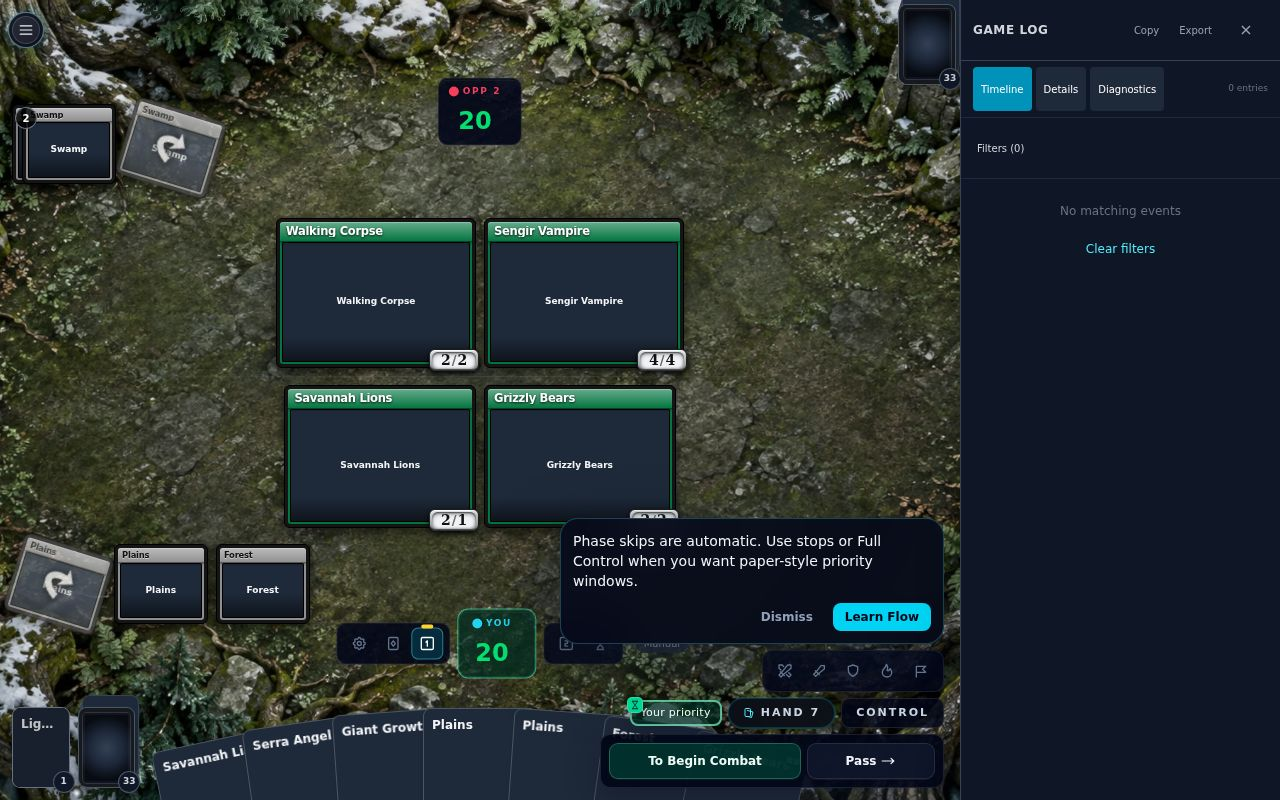
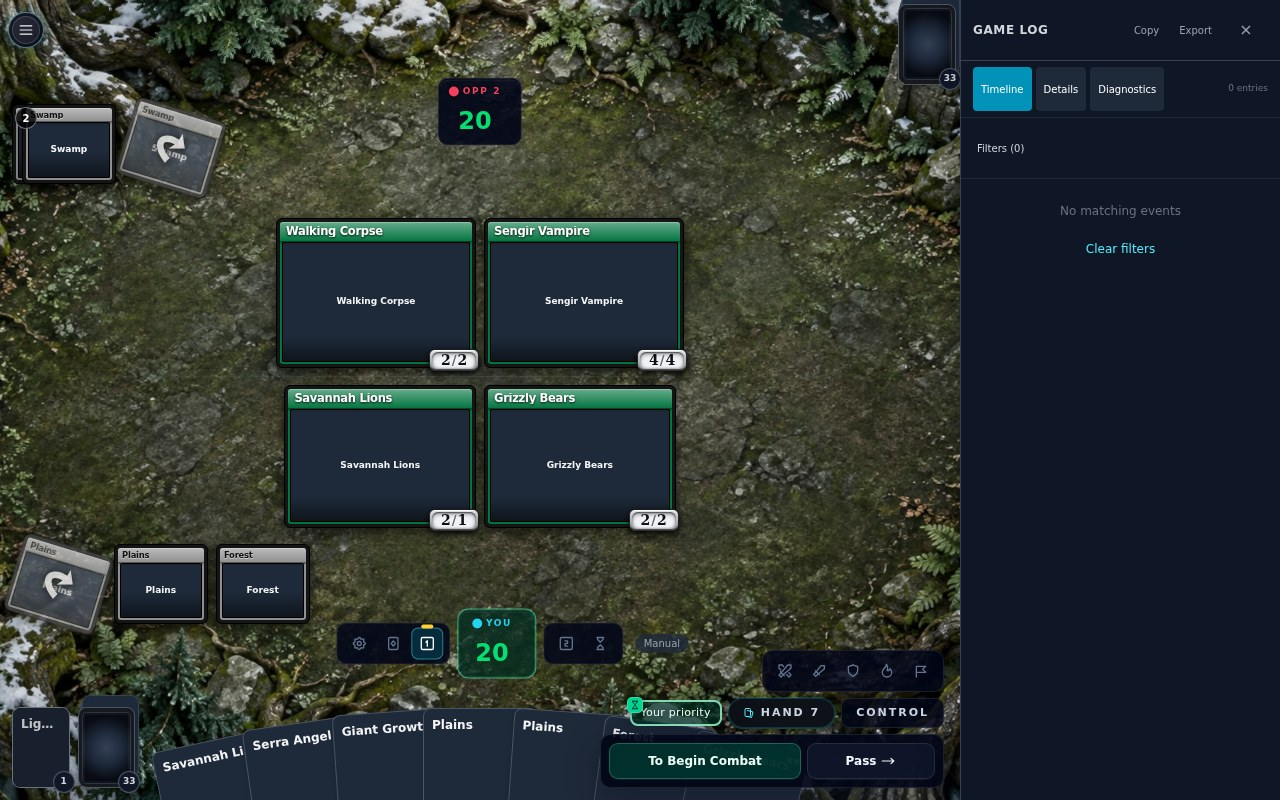
Capturas en limpio, y dos errores míos corregidos
Las capturas del E2E estaban commiteadas pero no se veían en el PR, y la de
Phase a 390 llevaba una tarjeta de ayuda de primer uso abierta: se subió como
evidencia justo el estado que la medición descartaba. Se rehacen las seis en
limpio (consejos cerrados y recarga, que los deja marcados como vistos) y se
añaden dos que sostienen lo afirmado: el contorno de cada carta con la línea del
pie fijo y su franja expuesta, y la hoja `HAND` de Phase abierta.

Y dos correcciones de esta ronda:

1. **No existe v0.131.0.** `Cargo.toml` dice 0.131.0 y hay un commit
   `release: v0.131.0`, pero `git ls-remote --tags` y la API de releases se
   paran en v0.130.0. Escribí «publicada el 21 nov», que era la fecha de
   v0.130.0. El pin candidato es el commit `4ab1091`, no un tag.

2. **La medición de la mano estaba mal, dos veces.** Primero comparaba el punto
   de impacto contra un `div` interno elegido a ojo; después usaba el centro de
   la carta, y en un abanico solapado el centro lo cubre la vecina. Las dos
   daban «0 de 6» y las dos medían el andamio del DOM o el solape.

Lo que se publica ahora está medido de tres formas que coinciden: la
accionabilidad de Playwright (`click({ trial: true })`, que nombra el elemento
que intercepta), la **franja expuesta** de cada carta —0 px en las siete, con el
pie fijo de `y 710…833` sobre un abanico que llega a 844— y el alto de carta por
debajo de ese borde, hasta 71 px. En Mesa, cerrada 0 de 7 y abierta 7 de 7.
[…]

diff --git a/docs/PHASE-E2E-2026-11-22-V0131.md b/docs/PHASE-E2E-2026-11-22-V0131.md
@@ -1,4 +1,4 @@
-# E2E Phase v/s Mesa — 22 nov 2026 (Phase `4ab1091`, v0.131.0)
+# E2E Phase v/s Mesa — 22 nov 2026 (Phase `4ab1091`, versión 0.131.0 sin tag)
 
 Pedido: ver si hay updates upstream y volver a hacer E2E con Phase frente a Mesa. El orden importa:
 primero se mide qué cambió arriba, después se mide qué se ve y qué se toca abajo.
@@ -6,7 +6,10 @@ primero se mide qué cambió arriba, después se mide qué se ve y qué se toca 
 ## 1. Upstream: hay release nueva, y no trae trabajo de vista
 
 - **Pin local**: `d01766e1` (v0.130.0), importado en el PR #68.
-- **`main` de Phase**: `4ab1091`, con **v0.131.0** publicada el 21 nov 2026 18:11 UTC.
+- **`main` de Phase**: `4ab1091`. Su `Cargo.toml` dice `version = "0.131.0"` y hay un commit
+  `release: v0.131.0`, pero **no existe tag ni release `v0.131.0`**: `git ls-remote --tags` se para en
+  `v0.130.0` y la API de releases también. Es una versión declarada, no publicada; llamarla
+  «v0.131.0 publicada» es un error, y una corrección de esta ronda.
 - **Diferencia**: 14 commits, 207 ficheros, **22 025 líneas añadidas** sólo en
   `crates/engine|phase-ast|phase-parser`. Motor sí; interfaz no.
 
@@ -27,7 +30,7 @@ Y lo que **no** cambia, que es lo que decide si este E2E tenía trabajo de produ
   (`crates/phase-engine/client-mirror/`), así que la copia que usa el motor para sus pruebas de
   formato sigue fiel sin tocarla.
 
-Conclusión honesta: **no hay vistas nuevas que portar**. Un pin a v0.131.0 sería trabajo de motor
+Conclusión honesta: **no hay vistas nuevas que portar**. Un pin a `4ab1091` sería trabajo de motor
 (casting, daño de combate, filtros, capas) y de fixture partido, no de interfaz. Eso no es un «no»:
 es un cambio de naturaleza, y quien lo pida debe saber que no mueve ni un píxel.
 
@@ -43,7 +46,7 @@ Fuera de `crates/` hay 28 ficheros, y tres de ellos son `protocol/changes/*.json
 | `bee8e913` | `pending_simultaneous_unless` (CR 101.4), `repeat_timing` (608.2c), `cause`/`discard_cause` (descarte por coste frente a efecto) | no en la interfaz: no añade `WaitingFor`, pero **sí** cambia lo que el motor hace con casos que Mesa ya dibuja (Viper, descartes) |
 
 Los tres **exigen que cualquier motor anterior a `4ab1091` se trate como incompatible**, y por eso un
-pin a v0.131.0 no es intercambiable con el actual: no se puede tomar el motor nuevo sin reimportar, ni
+pin a `4ab1091` no es intercambiable con el actual: no se puede tomar el motor nuevo sin reimportar, ni
 mezclar fixtures viejos con motor nuevo.
 
 ## 2. E2E: cómo se hizo
@@ -66,7 +69,7 @@ sí terminó entero en verde hoy (typecheck, WASM, paridad nativa, Chromium 31m2
 
 | | 1440×900 | 390×844 |
 | --- | --- | --- |
-| Phase | mano en abanico a lo ancho, 7 cartas legibles, rail de fases a la izquierda del pie | abanico grande y legible, **pero el pie le come la mitad baja** |
+| Phase | mano en abanico a lo ancho, 7 cartas legibles, rail de fases a la izquierda del pie | abanico grande y legible, **pero el pie fijo lo tapa de `y 710` para abajo** |
 | Mesa | mano en abanico centrada, dos campos con cabecera, rail de decisión a la derecha | **sin cartas visibles** con la mano cerrada; el cajón las enseña |
 
 La captura de Mesa a 1440 es la primera que se toma después de la importación de v0.130.0: el cromo,
@@ -75,37 +78,58 @@ sigue siendo el de la pasada de la ficha de fase.
 
 ## 4. Lo que se toca — el número que decide la diferencia 5
 
-A 390×844, con puntero táctil, `elementFromPoint` en el centro de cada carta de la mano:
+Esta sección se rehízo dos veces, y conviene decir por qué: la primera medición comparaba el punto de
+impacto contra un `div` interno de la carta elegido a ojo, y la segunda usaba el centro de la carta en
+un abanico solapado —donde el centro de una carta lo cubre la vecina—. Las dos daban «0 de 6», y las
+dos estaban mal: medían el andamio del DOM o el solape, no si el dedo llega. Lo que se publica aquí
+está medido de tres formas que sí responden a esa pregunta, y coinciden.
 
-| | Phase, mano cerrada | Mesa, mano cerrada | Mesa, cajón abierto |
-| --- | --- | --- | --- |
-| cartas de la mano tocables | **0 de 6** | 0 de 7 (fuera de pantalla) | 7 de 7 |
-| franja de la mano | 0…654, 97 px de alto, cartas de ~76×97 | `.hand-scroll` en `y 842…865`, 6 px de ancho | `y 566…816`, 369×250, `scrollWidth 1116` |
-| primera carta | `x 11, y 680…781` | `x 3, y 852` (fuera de 844) | `x 11, y 572`, 147×205 |
-| decisión / botón de pasar | `Pass` en `233,789` 138×36 | `Pasar` en `23,682` 343×39 | igual |
-| ficha de fase | `MAIN PHASE 1` en `12,749` 152×25 | `Turno 1 Principal` en `10,734` 371×36 | igual (tapada por la hoja) |
-| mano (disparador) | `HAND 7` en `12,778` | `Mano 7` en `10,775` 371×44 | igual |
-| control | `CONTROL` en `12,807` | `CONTROL` bajo el pliegue (`y 1075` con `.layout` desplazable) | igual |
+A 390×844, con puntero táctil:
 
-Dos cosas que esta tabla dice y que el documento no decía:
+| | Phase, mano cerrada | Mesa, mano cerrada | Mesa, cajón abierto | Phase, hoja `HAND` abierta |
+| --- | --- | --- | --- | --- |
+| cartas de la mano que reciben el puntero | **0 de 6** | **0 de 7** | **7 de 7** | 6 cartas, legibles, sin solape |
+| franja de la mano | `0…654`, 190 px de alto | `.hand-scroll` en `y 842…865`, **6 px de ancho** | `y 566…816`, 369×250, `scrollWidth 1116` | pantalla completa |
+| primera carta | `x 11, y 680…781`, 81×101 | `x 3, y 852` (fuera de 844) | `x 11, y 572`, 147×205 | 188×700 |
+| decisión / botón de pasar | `Pass` en `233,789` 138×36 | `Pasar` en `23,682` 343×39 | igual | no se ve |
+| ficha de fase | `MAIN PHASE 1` en `12,749` 152×25 | `Turno 1 Principal` en `10,734` 371×36 | igual (tapada por la hoja) | no se ve |
+| mano (disparador) | `HAND 7` en `12,778` | `Mano 7` en `10,775` 371×44 | igual | `Close`, arriba a la derecha |
+| control | `CONTROL` en `12,807` | `CONTROL` bajo el pliegue (`y 1075`, `.layout` desplazable) | igual | no se ve |
 
-1. **El abanico de Phase a 390 no es tocable.** Aparente y poco: las cartas existen, se leen, y el
-   dedo no las alcanza — el pie fijo (`div.fixed.z-30`, con ficha, mano y control) y la tarjeta de
-   ayuda caen encima. Con los tres consejos de primer uso cerrados sube a 1 de 5 puntos por carta:
-   sigue sin ser un objetivo. Phase resuelve esto con su botón `HAND 7`, que **abre una hoja a
-   pantalla completa** con las siete cartas, 188×700 cada una, más filtros `Sort` y `Show`, y un
-   `Close`. Es decir: a 390, Phase **tampoco juega desde el abanico**; juega desde una hoja.
+Cómo está medido, para que se pueda repetir o rebatir:
+
+1. **Accionabilidad de Playwright** (`locator.click({ trial: true })`, que comprueba si el elemento
+   recibe el evento sin llegar a pulsarlo). Phase, las seis cartas: `interceptado` por
+   `div.text-xs.font-semibold.text-gray-100` — la etiqueta de una ficha del pie. Mesa cerrada: las
+   siete, `interceptado` por `<section id="mesa-hand-sheet">` fuera del scrollport. Mesa abierta: 7 de
+   7 `recibe el puntero`.
+2. **Franja expuesta**, que es la medida correcta en un abanico solapado: para cada carta se recorre su
+   anchura y se cuenta en cuántas columnas el elemento que responde *es* esa carta. Phase: **0 px** en
+   las siete cartas. No es que estén lejos: no queda ni una columna suya al alcance.
+3. **El pie fijo** de Phase ocupa `y 710…833` (123 px, `div.fixed.z-30`) y el abanico vive en
+   `y 654…844`: hay cartas con **71 px** por debajo de ese borde. Su alto visible va de 19 a 56 px.
+
+Y entonces, dos conclusiones que se sostienen:
+
+1. **El abanico de Phase a 390 no es tocable, y Phase lo resuelve con una hoja.** Su botón `HAND 7`
+   abre una pantalla completa con las seis/siete cartas a 188×700, filtros `Sort` y `Show` y un
+   `Close`. Es decir: a 390, Phase **tampoco juega desde el abanico**. Lo mira, y juega desde la hoja.
 2. **Eso cambia el objetivo de la diferencia 5.** «Traer el abanico de Phase al teléfono» no es
    portar lo que Phase hace, porque Phase no lo usa para jugar. Lo que Phase tiene y Mesa no es una
    **hoja de mano a pantalla completa con cartas grandes**; Mesa tiene un cajón de 250 px con fichas
    de 147×205 y `scrollWidth 1116`. La diferencia real no es «abanico contra cajón», es **tamaño de
-   carta y jerarquía dentro de la hoja**.
+   carta y jerarquía dentro de la hoja**. Y hay un dato incómodo para los dos: en las dos, la mano
+   **cerrada** es intocable —Phase por el pie, Mesa porque el scrollport mide 6 px con la hoja
+   cerrada—, así que la hoja no es un adorno de ninguno de los dos clientes: es la única vía.
 
-No se toca código aquí. La diferencia 5 merece su pasada, y ahora tiene un objetivo medido en vez de
-una impresión: cartas a tamaño de lectura dentro de la hoja, decisión y ficha visibles mientras la
-hoja está abierta o una salida de un toque, y las tres pruebas que hoy fijan el cajón
-(`arena-mobile-drawer`, `hand-overflow-evidence`, `arena-viewport-matrix`) movidas en el mismo
-cambio.
+Evidencia en `docs/screenshots/`:
+
+- `comparar-phase-390.jpg` y `comparar-mesa-390.jpg`: los dos tableros **en limpio**, con los consejos
+  de primer uso cerrados. La versión anterior de la captura de Phase llevaba una tarjeta de ayuda
+  abierta: se subió como evidencia el estado que la medición descartaba, y eso también se corrigió.
+- `comparar-phase-390-toque.jpg`: contorno de cada carta, línea ámbar en el borde del pie fijo
+  (`y 710`) y, en verde, la franja expuesta de cada carta. No hay verde.
+- `comparar-phase-390-mano.jpg`: su hoja de mano abierta.
 
 ## 5. Contratos E2E de Mesa en local, hoy
 
@@ -120,7 +144,7 @@ cambio.
 
 ## 6. Qué queda arriba, concretamente
 
-Para un pin a **v0.131.0** (`4ab1091`) habría que reimportar los tres árboles (22 025 líneas), traer
+Para un pin a `4ab1091` (versión 0.131.0, sin tag) habría que reimportar los tres árboles (22 025 líneas), traer
 `lethal_damage.rs`, `simultaneous_unless.rs` e `integration_fixture.rs`, **sustituir**
 `integration_cards.json.gz` por el directorio `integration_cards/*.jsonl` —un cambio de forma del
 fixture, no una recarga— y volver a comprobar los `include_str!` de librería, que es lo que rompió el

diff --git a/docs/PHASE-UX-PORT.md b/docs/PHASE-UX-PORT.md
@@ -159,10 +159,12 @@ se borra: es el registro de que se hizo y de cuándo.
    `/ux` cubre la capa, no la composición de una partida larga.
 6. **La mano del teléfono** (diferencia 5), con objetivo corregido el 22 nov
    2026: no es «traer el abanico de Phase», porque a 390 el abanico de Phase
-   **no responde al dedo** (0 de 6 cartas tocables, medido con
-   `elementFromPoint`; ver `docs/PHASE-E2E-2026-11-22-V0131.md`). Phase juega
-   desde una hoja a pantalla completa con cartas de 188×700. Lo que falta en
-   Mesa es eso: tamaño de carta y jerarquía dentro de la hoja, no el abanico.
+   **no es tocable** —0 px de franja expuesta en las siete cartas, con el pie
+   fijo de `y 710` para abajo; ver `docs/PHASE-E2E-2026-11-22-V0131.md`—. Phase
+   juega desde una hoja a pantalla completa con cartas de 188×700. Lo que falta
+   en Mesa es eso: tamaño de carta y jerarquía dentro de la hoja, no el abanico.
+   Y en las dos, con la mano cerrada no se toca ninguna carta: la hoja no es un
+   adorno, es la única vía.
 
 Fuera de la mesa, el trabajo que queda vive en los issues: #55 comandante, auras
 y contadores de mesa; #56 draft; #57 lobby, multijugador, torneos y replay; #58
